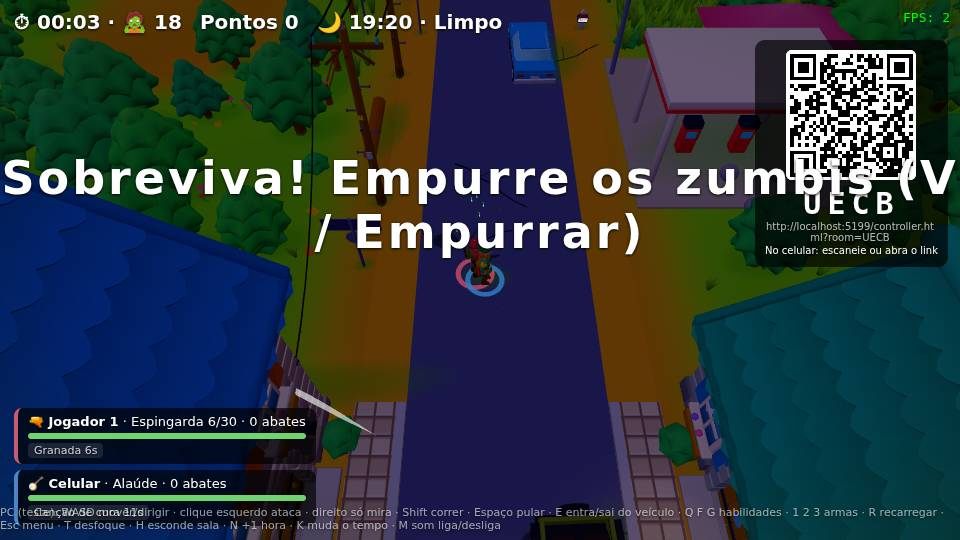
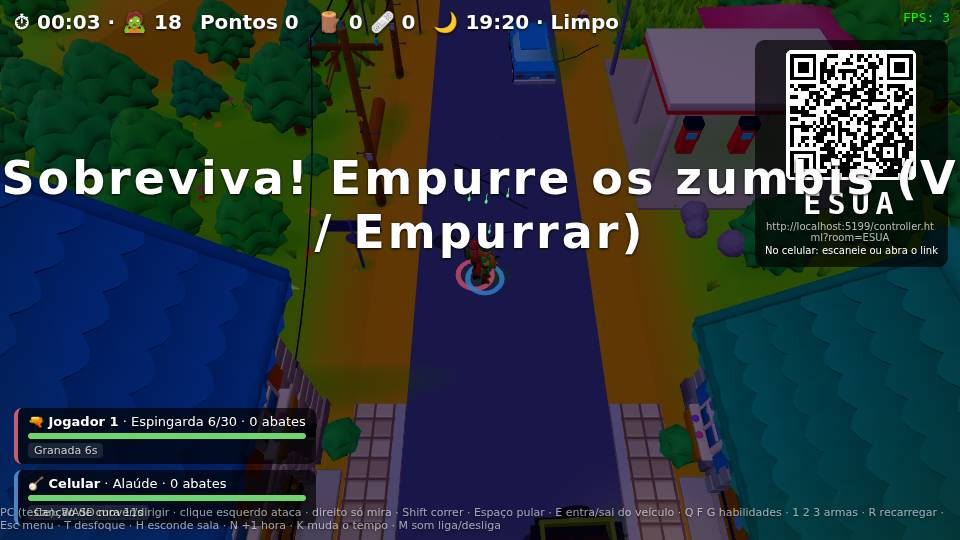
J3: saque nas casas — revistar e desmontar móveis, estoque do grupo
- buildings.js registra cada móvel no protótipo da casa; o gerador põe no mundo (b.spots, id estável)
  e o registro de casas responde SpotsNear(x, z, andar, r)
- games/survivor/loot.js: Usar perto de um móvel revista (1,5 s parado, barulho 5 m, 50% de achar)
  e depois desmonta (3 s, martelo 12 m, 1-2 tábuas); mesa/cama/sofá só desmontam; o que foi revistado não volta
- 5 itens no estoque do grupo (munição vai direto para os Atiradores); placar e celular mostram o estoque;
  o botão Usar do celular mostra a ação; marcadores amarelo/laranja e anel de progresso
- Números em balance.js · loot; replay ganhou uma cena de saque (fingerprint atualizado)
- window.__game só no npm run dev (testes)

diff --git a/src/games/survivor/loot.js b/src/games/survivor/loot.js
@@ -1,0 +1,155 @@
+import * as THREE from 'three'
+import { SpotsNear } from '../../shared/worldgen/buildings-registry'
+import { BALANCE } from './config/balance'
+
+// Saque nas casas (J3). Usar perto de um móvel: revista (parado, barulho pequeno) e talvez acha um item.
+// Móvel já revistado (ou mesa/cama/sofá): Usar desmonta (mais tempo, barulho de martelo) e dá tábuas.
+// O que foi revistado/desmontado não volta, nem se o chunk sair e voltar (o id do móvel é a posição).
+// Itens vão para o estoque do grupo; munição vai direto para os Atiradores. Números em balance.js · loot.
+const L = BALANCE.loot
+export const ITEMS = { tabuas: ['🪵', 'tábuas'], remedio: ['🩹', 'remédio'], municao: ['📦', 'munição'], gasolina: ['⛽', 'gasolina'], raro: ['⭐', 'achado raro'] }
+// prefixo da chave do móvel (buildings.js) → nome, dá para revistar? (os outros só desmontam)
+const KINDS = [
+  ['dresser', 'cômoda', true], ['wardrobe', 'guarda-roupa', true], ['shelf', 'estante', true], ['chest', 'baú', true], ['desk', 'escrivaninha', true],
+  ['stove', 'fogão', true], ['counter', 'balcão', true], ['shopCounter', 'balcão', true], ['display', 'vitrine', true], ['crates', 'caixotes', true],
+  ['barrel', 'barril', true], ['sacks', 'sacos', true], ['table', 'mesa', false], ['bed', 'cama', false], ['sofa', 'sofá', false],
+]
+const kindCache = new Map()
+const kindOf = (key) => {
+  if (!kindCache.has(key)) { const k = KINDS.find(([pre]) => key.startsWith(pre)); kindCache.set(key, k ? { name: k[1], search: k[2] } : null) }
+  return kindCache.get(key)
+}
+const randInt = ([a, b]) => a + Math.floor(Math.random() * (b - a + 1))
+function pick(weights) {
+  let r = Math.random() * Object.values(weights).reduce((s, w) => s + w, 0)
+  for (const [k, w] of Object.entries(weights)) if ((r -= w) < 0) return k
+  return 'tabuas'
+}
+const MARK_GEO = new THREE.OctahedronGeometry(0.22, 0).scale(1, 1.4, 1) // losango em pé, visível de cima
+const MARK = { search: new THREE.MeshBasicMaterial({ color: 0xffc81e, toneMapped: false }), dismantle: new THREE.MeshBasicMaterial({ color: 0xd9894a, toneMapped: false }) } // amarelo: revistar · laranja: desmontar
+const PROG_GEO = new THREE.RingGeometry(0.82, 1, 32).rotateX(-Math.PI / 2)
+const PROG_MAT = new THREE.MeshBasicMaterial({ color: 0xffffff, transparent: true, opacity: 0.9, depthWrite: false, depthTest: false }) // aparece até atrás de móveis
+
+// ctx: { scene, fx, players (Map), noise(x, z, r), say(texto, s), sfx(nome, opções) }
+export function CreateLoot({ scene, fx, players, noise, say, sfx }) {
+  const done = new Map() // id do móvel -> 1 revistado · 2 desmontado
+  const inv = { tabuas: 0, remedio: 0, municao: 0, gasolina: 0, raro: 0 }
+  const marks = Array.from({ length: 12 }, () => { const m = new THREE.Mesh(MARK_GEO, MARK.search); m.visible = false; scene.add(m); return m })
+  const progs = new Map() // id do jogador -> anel de progresso
+  let t = 0
+
+  // o que dá para fazer neste móvel agora: 'search', 'dismantle' ou null
+  function actionOf(s) {
+    const k = kindOf(s.key), st = done.get(s.id) || 0
+    if (!k || st >= 2) return null
+    return k.search && !st ? 'search' : 'dismantle'
+  }
+  // móvel ao alcance do jogador (o mais perto), com algo a fazer
+  function target(p) {
+    let best = null, bd = Infinity
+    for (const s of SpotsNear(p.x, p.z, p.lv || 0, L.glow)) {
+      if (!actionOf(s)) continue
+      const d = Math.min(Math.hypot(s.fx - p.x, s.fz - p.z), Math.hypot(s.x - p.x, s.z - p.z) - s.r)
+      if (d < L.reach && d < bd) { bd = d; best = s }
+    }
+    return best
+  }
+  function give(p, item) {
+    const [icon, name] = ITEMS[item]
+    const gunners = item === 'municao' ? [...players.values()].filter((o) => o.cls.id === 'gunner') : []
+    if (gunners.length) {
+      const caps = BALANCE.rules.supply
+      for (const g of gunners) for (const w of ['carbine', 'shotgun']) g.ammo[w].reserve = Math.min(g.ammo[w].reserve + L.ammo[w], Math.max(g.ammo[w].reserve, caps[w][1]))
+      say(`${p.name} achou ${icon} ${name} para o Atirador`)
+    } else {
+      const n = item === 'tabuas' ? randInt(L.planks) : 1
+      inv[item] += n
+      say(`${p.name} achou ${icon} ${n > 1 ? `${n} ` : ''}${name}`)
+    }
+    sfx('supply')
+  }
+  function finish(p, { s, a }) {
+    const k = kindOf(s.key), y = s.y + 1
+    if (a === 'search') {
+      done.set(s.id, 1)
+      if (Math.random() >= L.chance) { say(`${p.name}: ${k.name} sem nada`, 1.4); sfx('ui', { f: 300 }); return }
+      give(p, pick(L.rooms[s.room] || L.rooms.terreo))
+      fx.burst(s.fx, y, s.fz, 0xffe08a, 8, 3, 0.5)
+    } else {
+      done.set(s.id, 2)
+      const n = randInt(L.dismantle.planks)
+      inv.tabuas += n
+      say(`${p.name} desmontou ${k.name}: +${n} 🪵`)
+      sfx('bang', { x: s.x, z: s.z })
+      fx.burst(s.x, y, s.z, 0xb07a48, 10, 3.5, 0.6)
+      fx.puff(s.x, s.y + 0.6, s.z, 0xc8b8a0, 0.6, 1, 0.6)
+    }
+  }
+
+  return {
+    inv,
+    // Usar: começa a revistar/desmontar o móvel mais perto. false = não há móvel ao alcance
+    use(p) {
+      if (p.task) return true
+      const s = target(p)
+      if (!s) return false
+      const a = actionOf(s)
+      p.task = { s, a, t: 0, need: a === 'search' ? L.search.time : L.dismantle.time, noiseT: 0, x: p.x, z: p.z }
+      sfx(a === 'search' ? 'swap' : 'bang', { x: s.x, z: s.z })
+      return true
+    },
+    // texto do botão Usar (celular) quando há móvel ao alcance
+    label(p) { const s = !p.dead && !p.vehicle && target(p); return s ? (actionOf(s) === 'search' ? '🔍 Revistar' : '🪚 Desmontar') : '' },
+    // por jogador, a cada quadro: progresso; mexer, atacar, ser agarrado, cair ou entrar no carro cancela
+    tick(p, dt) {
+      const k = p.task
+      if (!k) return
+      if (p.dead || p.vehicle || p.held || p.firing || Math.hypot(p.x - k.x, p.z - k.z) > 0.6) { p.task = null; return }
+      if ((k.noiseT -= dt) <= 0) {
+        k.noiseT = 1
+        noise(k.s.x, k.s.z, k.a === 'search' ? L.search.noise : L.dismantle.noise)
+        if (k.a === 'dismantle' && k.t > 0) sfx('bang', { x: k.s.x, z: k.s.z })
+      }
+      if ((k.t += dt) >= k.need) { p.task = null; finish(p, k) }
+    },
+    // brilho nos móveis perto de alguém + anel de progresso de quem está revistando/desmontando
+    update(dt, list) {
+      t += dt
+      let n = 0
+      const seen = new Set()
+      for (const p of list) {
+        if (p.dead || p.vehicle) continue
+        for (const s of SpotsNear(p.x, p.z, p.lv || 0, L.glow)) {
+          const a = n < marks.length && !seen.has(s.id) && actionOf(s)
+          if (!a) continue
+          seen.add(s.id)
+          const m = marks[n++]
+          m.material = MARK[a]
+          m.visible = true
+          m.position.set(s.fx, s.y + 1.2 + Math.sin(t * 3 + s.x) * 0.08, s.fz)
+          m.rotation.y = t * 2
+          m.scale.setScalar(1 + Math.sin(t * 6 + s.z) * 0.15) // pulsa
+        }
+      }
+      for (let i = n; i < marks.length; i++) marks[i].visible = false
+      for (const p of list) {
+        let r = progs.get(p.id)
+        if (!p.task) { if (r) r.visible = false; continue }
+        if (!r) { r = new THREE.Mesh(PROG_GEO, PROG_MAT); r.renderOrder = 3; scene.add(r); progs.set(p.id, r) }
+        r.visible = true
+        r.scale.setScalar(0.35 + 0.6 * (p.task.t / p.task.need)) // o anel cresce até completar
+        r.position.set(p.x, (p.y || 0) - (p.jy || 0) + 0.13, p.z)
+      }
+    },
+    // estoque do grupo, curto (placar e celular)
+    text() { return Object.entries(ITEMS).filter(([k]) => inv[k] || k === 'tabuas' || k === 'remedio').map(([k, [icon]]) => `${icon} ${inv[k]}`).join('  ') },
+    clear() {
+      done.clear()
+      for (const k in inv) inv[k] = 0
+      for (const r of progs.values()) scene.remove(r)
+      progs.clear()
+      for (const m of marks) m.visible = false
+      for (const p of players.values()) p.task = null
+    },
+  }
+}

diff --git a/src/games/survivor/rules/survival.js b/src/games/survivor/rules/survival.js
@@ -14,6 +14,7 @@ import { sfx } from '../../../shared/audio/sfx'
 import { ApplyInput } from '../../../engine/input/contract'
 import { BALANCE } from '../config/balance'
 import { PLAYER_COLORS } from '../../../engine/render/splitscreen'
+import { CreateLoot } from '../loot'
 
 const MAX_PLAYERS = 4
 // números das regras: config/balance.js
@@ -66,6 +67,7 @@ export function CreateGame(scene, colliders, net, hooks = {}) {
     fx.ring(x, GroundAt(x, z), z, R.color, 0.6, r, R.time, { alpha: R.alpha })
   }
   const abilities = CreateAbilities({ scene, fx, wfx, colliders, enemies, players, hit, noise, impact, night: hooks.night || (() => false) })
+  const loot = CreateLoot({ scene, fx, players, noise, say, sfx }) // saque nas casas (Usar perto de um móvel)
 
   // slot = vaga do lobby: cor e ponto de largada · choice = classe escolhida (0 Atirador · 1 Samurai · 2 Mago · 3 Bardo; sem escolha = a da vaga)
   function addPlayer(id, name, slot, choice) {
@@ -105,7 +107,7 @@ export function CreateGame(scene, colliders, net, hooks = {}) {
     const p = players.get(id)
     if (!p || p.dead) return
     if (a === 'shove') return horde.shove(p)
-    if (a === 'use') return (!p.held || p.vehicle) && vehicles.use(p) // agarrado não consegue entrar no carro
+    if (a === 'use') { if (!p.vehicle && !p.held && loot.use(p)) return; return (!p.held || p.vehicle) && vehicles.use(p) } // móvel ao alcance primeiro; agarrado não entra no carro
     if (a === 'b1' || a === 'b2' || a === 'b3') return abilities.skill(p, +a[1] - 1)
     if (a === 'swap') return abilities.skill(p, 0) // controles antigos
     if (a === 'reload') return p.cls.id === 'gunner' && abilities.skill(p, 1)
@@ -146,6 +148,7 @@ export function CreateGame(scene, colliders, net, hooks = {}) {
   }
 
   function clearAll() {
+    loot.clear()
     horde.clear()
     abilities.clear()
     fx.clear()
@@ -182,6 +185,7 @@ export function CreateGame(scene, colliders, net, hooks = {}) {
       if (!p.dead && !p.vehicle) UpdatePlayerMovement(p, dt, colliders, MOVE)
       else if (p.dead) { p.gy = GroundAt(p.x, p.z); p.jy = 0; p.y = p.gy; p.model.root.position.set(p.x, p.y, p.z); p.speed = 0; p.vx = p.vz = 0; p.aiming = p.firing = false }
       abilities.tick(p, dt)
+      loot.tick(p, dt)
       if (p.drown && !p.dead) { p.hp -= PL.drown * dt; if (p.hp <= 0) die(p) } // sem fôlego na água funda
     }
 
@@ -210,6 +214,7 @@ export function CreateGame(scene, colliders, net, hooks = {}) {
     wfx.update(dt, list.filter((p) => !p.vehicle), enemies)
     if (players.size) horde.update(dt)
     abilities.update(dt)
+    loot.update(dt, list)
     fx.update(dt)
     gore.update(dt)
 
@@ -220,12 +225,12 @@ export function CreateGame(scene, colliders, net, hooks = {}) {
         if (p.id === 'local') continue
         const inf = abilities.info(p)
         const car = p.vehicle ? 2 : !p.dead && vehicles.nearest(p) ? 1 : 0
-        net.send(p.id, { t: 'state', hp: Math.ceil(p.hp), max: p.max, cls: `${p.cls.icon} ${p.cls.name}`, w: inf.text, btn: inf.buttons.map((b) => [b.l, +b.cd.toFixed(2)]), car, dead: p.dead, st: Math.round(p.stamina), time: Math.floor(st.time), score: st.score, held: p.held ? 1 : 0, rv: p.dead && !st.over ? Math.ceil(p.reviveT) : 0 })
+        net.send(p.id, { t: 'state', hp: Math.ceil(p.hp), max: p.max, cls: `${p.cls.icon} ${p.cls.name}`, w: inf.text, btn: inf.buttons.map((b) => [b.l, +b.cd.toFixed(2)]), car, dead: p.dead, st: Math.round(p.stamina), time: Math.floor(st.time), score: st.score, held: p.held ? 1 : 0, rv: p.dead && !st.over ? Math.ceil(p.reviveT) : 0, u: loot.label(p), inv: loot.text() })
       }
     }
   }
 
-  return { players, enemies, vehicles, st, clear, addPlayer, removePlayer, setInput, act, update, alive, zombies: () => horde.alive(), info: (p) => abilities.info(p) }
+  return { players, enemies, vehicles, loot, st, clear, addPlayer, removePlayer, setInput, act, update, alive, zombies: () => horde.alive(), info: (p) => abilities.info(p) }
 }
 
 export const clock = (s) => `${String(Math.floor(s / 60)).padStart(2, '0')}:${String(Math.floor(s % 60)).padStart(2, '0')}`

diff --git a/src/shared/worldgen/buildings.js b/src/shared/worldgen/buildings.js
@@ -341,6 +341,7 @@ function build(id, s, vr, vi) {
   const shell = [], cutw = [], inside = [], ext = []
   for (let k = 0; k < F; k++) { shell.push([]); cutw.push([]); inside.push([]); ext.push([]) }
   const cols = []
+  const spots = [] // móveis (para saque): { x, z (centro), fx, fz (frente), y, k (andar), key, room, r } em coordenadas da casa
   const top = (k) => (k === F - 1 ? H : (k + 1) * FLOOR_H)
   const trim = stone ? 0xfff4dc : vr.trim
   const beam = stone ? tint(vr.wall, 1.12) : city ? vr.trim : WOOD_D
@@ -628,6 +629,8 @@ function build(id, s, vr, vi) {
         busy.push({ x0: x - hw - gap, x1: x + hw + gap, z0: z - hd - gap, z1: z + hd + gap })
         const a = (rot * Math.PI) / 2, c = Math.round(Math.cos(a)), sn = Math.round(Math.sin(a))
         list.push(assembly(f.key, f.parts).rotateY(a).translate(x, y0, z))
+        const fr = f.fd / 2 + 0.3 // a frente do móvel é +z antes de girar
+        spots.push({ x, z, fx: x + Math.sin(a) * fr, fz: z + Math.cos(a) * fr, y: y0, k, key: f.key, room: k === 0 ? (shop ? 'loja' : 'terreo') : k === 2 ? 'sotao' : 'quarto', r: Math.max(f.fw, f.fd) / 2 })
         for (const q of f.cols) cols.push({ x: x + q.x * c + q.z * sn, z: z - q.x * sn + q.z * c, hw: sw ? q.hd : q.hw, hd: sw ? q.hw : q.hd, h: q.h, lv: k })
         return [x, z]
       }
@@ -685,7 +688,7 @@ function build(id, s, vr, vi) {
   for (let k = 0; k < F; k++) cuts.push(merge([...common, ...shell.slice(0, k).flat(), ...ext.slice(0, k + 1).flat(), ...inside.slice(0, k + 1).flat(), ...cutw[k], ...(k === 0 ? doorStub : [])]))
   return {
     closed, cuts, door: doorLeaf(arch, vr.door), hinge: { x: dl + 0.04, z: zf }, doorCol: { x: dx, z: zf, hw: DOOR_W / 2, hd: T / 2 - 0.04 },
-    cols, w, d, doorX: dx, floors: F, ix, iz, ramps, top: H + rise + 0.6,
+    cols, spots, w, d, doorX: dx, floors: F, ix, iz, ramps, top: H + rise + 0.6,
   }
 }
 // Pré-geração espalhada: PrewarmBuildings só enfileira; PrewarmStep (a cada quadro) gera um protótipo pendente.

diff --git a/src/games/survivor/config/balance.js b/src/games/survivor/config/balance.js
@@ -112,6 +112,25 @@ export const BALANCE = {
     vehicle: { carDamage: 0.9, playerDamage: 0.35 }, // dentro do carro: o carro leva 90% do dano e o jogador só 35%
   },
 
+  // ---------------------------------------------------------------- saque nas casas
+  // Móveis com gaveta (cômoda, baú, guarda-roupa, estante, fogão, balcão, caixotes…) podem ser revistados uma vez e depois desmontados.
+  // Mesa, cama e sofá só podem ser desmontados. O que foi revistado/desmontado não volta.
+  loot: {
+    glow: 4, // móveis com algo a fazer brilham quando alguém chega a até 4 m (no mesmo andar)
+    reach: 1.2, // distância para conseguir usar o móvel
+    search: { time: 1.5, noise: 5 }, // revistar: segundos parado · barulho (no começo e a cada segundo)
+    dismantle: { time: 3, noise: 12, planks: [1, 2] }, // desmontar: segundos parado · barulho de martelo (a cada segundo) · tábuas (mín–máx)
+    chance: 0.5, // chance de um móvel revistado ter alguma coisa
+    rooms: { // o que sai, conforme o cômodo (pesos: maior = mais comum; 0 = nunca)
+      terreo: { tabuas: 35, remedio: 25, municao: 25, gasolina: 10, raro: 5 }, // cozinha e sala
+      quarto: { tabuas: 15, remedio: 35, municao: 35, gasolina: 0, raro: 15 }, // andar de cima
+      sotao: { tabuas: 40, remedio: 5, municao: 10, gasolina: 20, raro: 25 }, // sótão das casas de 3 andares
+      loja: { tabuas: 30, remedio: 30, municao: 30, gasolina: 5, raro: 5 }, // lojas
+    },
+    planks: [1, 2], // tábuas por achado (mín–máx)
+    ammo: { carbine: 20, shotgun: 6 }, // munição achada vai direto para cada Atirador do grupo (até o limite dos suprimentos); sem Atirador, fica guardada
+  },
+
   // ---------------------------------------------------------------- sensação ("juice"): só aparência, a não ser a pausa
   juice: {
     // tremor de tela: quanto a câmera balança (metros) em cada caso; scale 0 desliga todos. Só treme a tela de quem está perto (radius)

diff --git a/src/games/survivor/ui/hud.js b/src/games/survivor/ui/hud.js
@@ -19,14 +19,16 @@ export function CreateHud(game, climate) {
       t = 0.1
       $('#wave').textContent = `⏱ ${clock(game.st.time)} · 🧟 ${game.zombies()}`
       $('#score').textContent = `Pontos ${game.st.score}`
+      $('#inv').textContent = game.loot.text() // estoque do grupo (saque)
       if (climate) $('#clock').textContent = climate.label()
       $('#plist').innerHTML = [...game.players.values()].map((p) => {
         const inf = game.info(p)
         const cds = inf.buttons.filter((b) => b.cd > 0).map((b) => `<span class="cd">${b.l} ${Math.ceil(b.cd * p.cls.cd[inf.buttons.indexOf(b)])}s</span>`).join('')
         const car = p.vehicle ? ` · 🚗 ${p.vehicle.d.name}${p.seat.mode === 'drive' ? ' (dirigindo)' : ''}` : ''
         const mana = p.cls.id === 'mage' ? `<div class="bar mana"><i style="width:${p.mana}%"></i></div>` : ''
+        const task = p.task ? ` · ${p.task.a === 'search' ? '🔍' : '🪚'} ${Math.round((p.task.t / p.task.need) * 100)}%` : ''
         const state = p.dead ? (game.st.over ? '' : ` · 💀 volta em ${Math.ceil(p.reviveT)}s`) : p.held ? ' · <span class="grab">🧟 AGARRADO! (V)</span>' : ''
-        return `<div class="pl ${p.dead ? 'dead' : ''}" style="border-left:4px solid ${PLAYER_COLORS[p.idx % 4]}"><b>${p.cls.icon} ${p.name}</b> · ${inf.text} · ${p.kills} abates${car}${p.buffT > 0 ? ' · ✨' : ''}${state}<div class="bar"><i style="width:${(p.hp / p.max) * 100}%"></i></div>${mana}${cds ? `<div class="cds">${cds}</div>` : ''}</div>`
+        return `<div class="pl ${p.dead ? 'dead' : ''}" style="border-left:4px solid ${PLAYER_COLORS[p.idx % 4]}"><b>${p.cls.icon} ${p.name}</b> · ${inf.text} · ${p.kills} abates${car}${p.buffT > 0 ? ' · ✨' : ''}${task}${state}<div class="bar"><i style="width:${(p.hp / p.max) * 100}%"></i></div>${mana}${cds ? `<div class="cds">${cds}</div>` : ''}</div>`
       }).join('')
     },
   }

diff --git a/controller.html b/controller.html
@@ -54,7 +54,7 @@
     <div id="pad">
       <div class="zone" id="zl"><div class="base"><div class="knob"></div></div><div class="hint">mover</div></div>
       <div class="zone" id="zr"><div class="base"><div class="knob"></div></div><div class="hint">mirar e atacar</div></div>
-      <div id="top"><div><div id="hp"><i></i></div><div id="st" style="margin-top:4px"><i></i></div></div><span id="cls"></span><span id="weapon"></span><span id="time"></span></div>
+      <div id="top"><div><div id="hp"><i></i></div><div id="st" style="margin-top:4px"><i></i></div></div><span id="cls"></span><span id="weapon"></span><span id="time"></span><span id="inv"></span></div>
       <div id="btns"><button id="b1" class="hide"></button><button id="b2" class="hide"></button><button id="b3" class="hide"></button></div>
       <button class="side" id="run">Correr</button><button class="side" id="jump">Pular</button><button class="side" id="shove">Empurrar</button><button id="use">🚗 Entrar</button>
       <div id="state"></div>

diff --git a/src/engine/input/phone.js b/src/engine/input/phone.js
@@ -54,8 +54,11 @@ function onState(m) {
     el.style.setProperty('--cd', b[1])
   })
   const use = $('#use')
-  use.className = m.car === 2 ? 'in' : m.car === 1 ? 'near' : ''
-  use.textContent = m.car === 2 ? '🚗 Sair' : '🚗 Entrar'
+  // botão Usar: sair do carro · ação que o jogo mandar (u, ex.: revistar um móvel) · entrar no carro
+  const label = m.car === 2 ? '🚗 Sair' : m.u || (m.car === 1 ? '🚗 Entrar' : '')
+  use.className = m.car === 2 ? 'in' : label ? 'near' : ''
+  use.textContent = label
+  $('#inv').textContent = m.inv || ''
   $('#time').textContent = `⏱ ${String(Math.floor(m.time / 60)).padStart(2, '0')}:${String(m.time % 60).padStart(2, '0')}`
   $('#shove').classList.toggle('alert', !!m.held)
   $('#st i').style.width = `${m.st}%`

diff --git a/src/shared/worldgen/generator.js b/src/shared/worldgen/generator.js
@@ -281,6 +281,8 @@ export function GenerateChunk(cx, cz) {
     bList.push({
       x: b.x, z: b.z, y, ry: b.ry, cs, sn, pr, x0: b.x - b.hw, x1: b.x + b.hw, z0: b.z - b.hd, z1: b.z + b.hd,
       ix0: b.x - iw, ix1: b.x + iw, iz0: b.z - id, iz1: b.z + id, meshes, mode: 0, door: { pivot, leaf, ang: 0, col: dcol, x: ddx, z: ddz },
+      // móveis no mundo (saque); id estável: a mesma casa gera o mesmo id quando o chunk volta
+      spots: pr.spots.map((s) => { const [sx, sz] = toW(s.x, s.z), [fx, fz] = toW(s.fx, s.fz); return { x: sx, z: sz, fx, fz, y: y + s.y, lv: s.k, key: s.key, room: s.room, r: s.r, id: `${sx.toFixed(1)},${sz.toFixed(1)},${s.k}` } }),
     })
   }
 

diff --git a/src/shared/worldgen/buildings-registry.js b/src/shared/worldgen/buildings-registry.js
@@ -52,6 +52,16 @@ export function UpdateDoors(dt, players, enemies) {
   }
 }
 
+// móveis das casas carregadas a menos de r de (x, z), no andar lv (cada um: { x, z, y, lv, key, room, r, id })
+export function SpotsNear(x, z, lv, r) {
+  const out = []
+  for (const b of set) {
+    if (x < b.x0 - r || x > b.x1 + r || z < b.z0 - r || z > b.z1 + r) continue
+    for (const s of b.spots) if (s.lv === lv && Math.hypot(s.x - x, s.z - z) < r) out.push(s)
+  }
+  return out
+}
+
 export function PointInBuilding(x, z, m = 0) {
   for (const b of set) if (x > b.x0 - m && x < b.x1 + m && z > b.z0 - m && z < b.z1 + m) return true
   return false

diff --git a/src/games/survivor/main.js b/src/games/survivor/main.js
@@ -122,6 +122,7 @@ export async function LoadGame() {
   })
   game = CreateGame(scene, colliders, net, { onEnd: toLobby, night: () => climate.time < BALANCE.day.nightTo || climate.time > BALANCE.day.nightFrom, loaded: chunks.loaded, shake: split.shake })
   events.on('vehicle-spot', (p) => game.vehicles.register(p)) // vaga na estrada → carro dirigível
+  if (import.meta.env.DEV) window.__game = game // só no npm run dev: para testes automáticos e depuração
   hud = CreateHud(game, climate)
   bots = CreateBots(game, BOTS)
   BindKeyboard(game, KEYS)

diff --git a/index.html b/index.html
@@ -26,7 +26,7 @@
       </div>
     </div>
     <div id="hud">
-      <div id="top"><span id="wave"></span><span id="score"></span><span id="clock"></span></div>
+      <div id="top"><span id="wave"></span><span id="score"></span><span id="inv"></span><span id="clock"></span></div>
       <div id="plist"></div>
       <div id="room">
         <canvas id="qr" width="130" height="130"></canvas>
